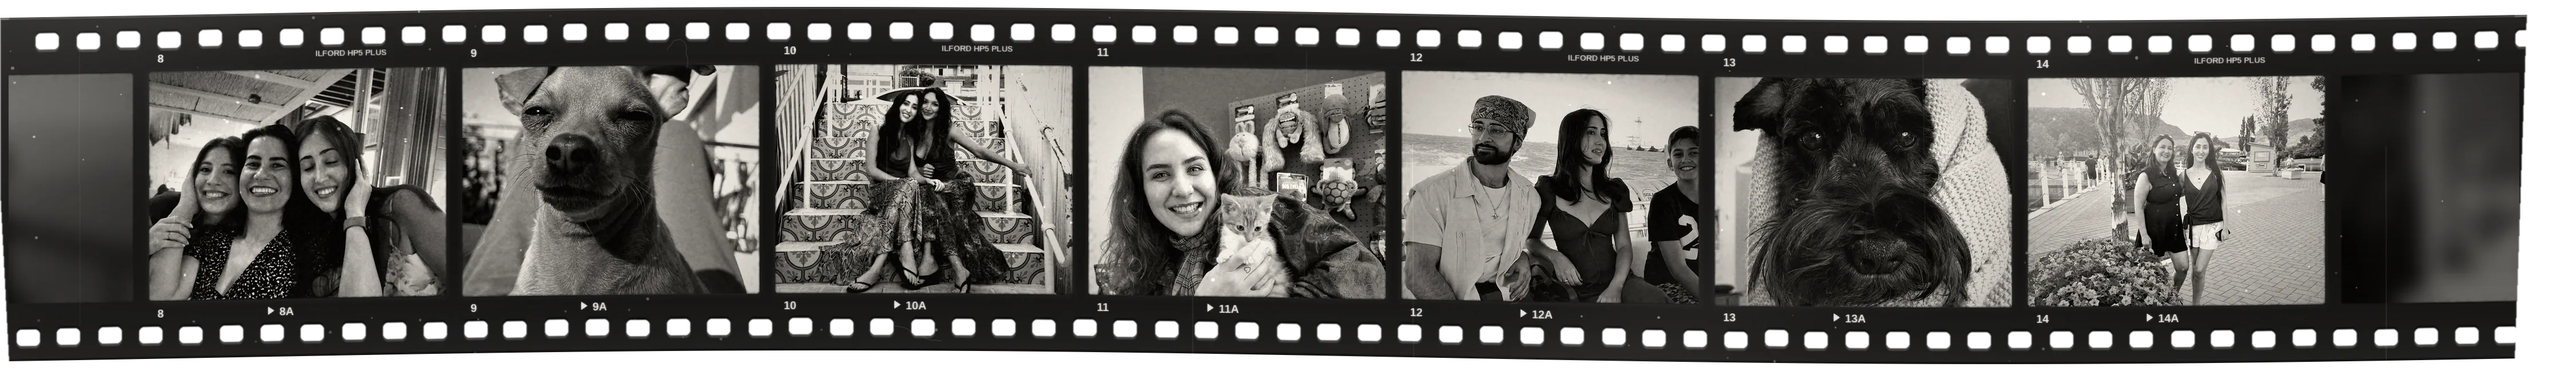
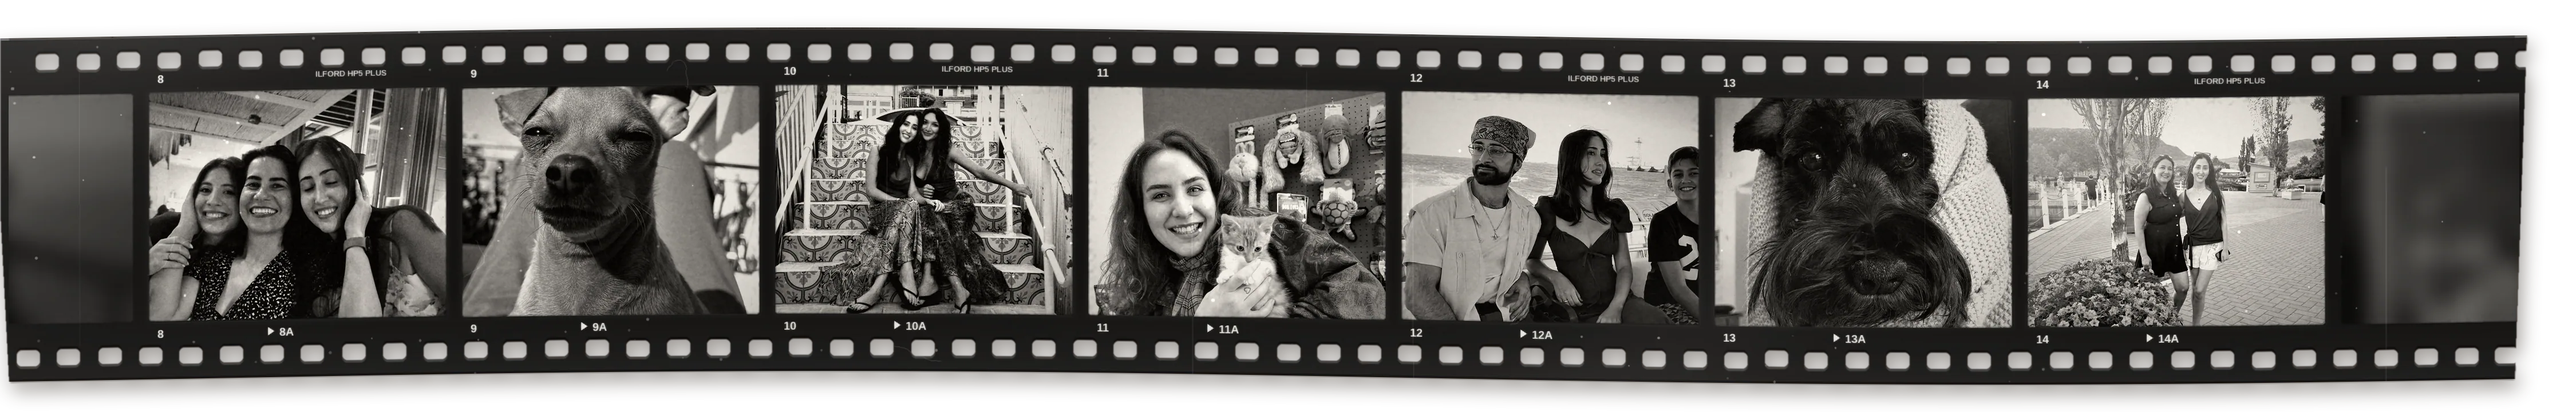
Pin the film section while strips slide, bake shadows for smooth scrolling, Home in header, tidy crops, mobile header and rankings fixes
Claude-Session: https://claude.ai/code/session_019cHY5kFv81n3dVZ9DcXyGk

diff --git a/things-i-love.html b/things-i-love.html
@@ -13,7 +13,7 @@
 <script>document.documentElement.classList.add("js")</script>
 </head>
 <body>
-<header class="cap"><a href="index.html">Peri</a><nav aria-label="Pages"><a href="work.html">Things I&rsquo;ve made</a><a href="things-i-love.html" aria-current="page">Things I love</a><a href="ranking.html">Rankings</a></nav></header>
+<header class="cap"><a href="index.html">Home</a><nav aria-label="Pages"><a href="work.html">Things I&rsquo;ve made</a><a href="things-i-love.html" aria-current="page">Things I love</a><a href="ranking.html">Rankings</a></nav></header>
 <main id="top">
   <section class="pt">
   <p class="folio cap mu">03</p>
@@ -24,8 +24,8 @@
     <ol class="loves-list stag">
       <li style="--i:0"><span class="n type">01</span><span>Piano</span></li>
       <li style="--i:1"><span class="n type">02</span><span>Yoga</span></li>
-      <li style="--i:2"><span class="n type">03</span><span><a href="work.html#strength">Building random things with AI</a></span></li>
-      <li style="--i:3"><span class="n type">04</span><span><a href="work.html#portraits">Creating AI portraits of my friends</a></span></li>
+      <li style="--i:2"><span class="n type">03</span><span>Building random things with AI</span></li>
+      <li style="--i:3"><span class="n type">04</span><span>Creating AI portraits of my friends</span></li>
       <li style="--i:4"><span class="n type">05</span><span>Quality time with the people I love</span></li>
       <li style="--i:5"><span class="n type">06</span><span>Learning new things</span></li>
       <li style="--i:6"><span class="n type">07</span><span>Spending time outdoors</span></li>
@@ -57,34 +57,36 @@
 </ol>
   </section>
   <section id="people" aria-label="People (and pets) I love">
+    <div class="pstage">
     <div class="sh fd"><h2>People (and pets) I love</h2></div>
     <div class="csheet" aria-label="A contact sheet of photos of people and pets I love">
-      <div class="rw"><figure class="crow" data-dir="1"><img loading="lazy" src="assets/img/n/sheet/row-a.webp" alt="" width="4500" height="649">
-        <span class="fr" data-lightbox="assets/img/n/b/p01.jpg" data-alt="Peri and a friend in a garden by the water" style="left:9.33%;top:19.11%;width:11.56%;height:61.79%"></span>
-        <span class="fr" data-lightbox="assets/img/n/b/p19.jpg" data-alt="A schnauzer standing on the lawn" style="left:21.49%;top:19.11%;width:11.56%;height:61.79%"></span>
-        <span class="fr" data-lightbox="assets/img/n/b/p02.jpg" data-alt="Peri with her brother, mom and dad by the sea at sunset" style="left:33.64%;top:19.11%;width:11.56%;height:61.79%"></span>
-        <span class="fr" data-lightbox="assets/img/n/b/p03.jpg" data-alt="Peri and a friend in the back of a car" style="left:45.80%;top:19.11%;width:11.56%;height:61.79%"></span>
-        <span class="fr" data-lightbox="assets/img/n/b/p05.jpg" data-alt="Peri&rsquo;s mom and dad by a lake" style="left:57.96%;top:19.11%;width:11.56%;height:61.79%"></span>
-        <span class="fr" data-lightbox="assets/img/n/b/p08.jpg" data-alt="Peri and a friend, close up" style="left:70.11%;top:19.11%;width:11.56%;height:61.79%"></span>
-        <span class="fr" data-lightbox="assets/img/n/b/p12.jpg" data-alt="Peri and a friend by the sea" style="left:82.27%;top:19.11%;width:11.56%;height:61.79%"></span>
+      <div class="rw"><figure class="crow" data-dir="1"><img src="assets/img/n/sheet/row-a.webp" alt="" width="4500" height="721" decoding="async">
+        <span class="fr" data-lightbox="assets/img/n/b/p01.jpg" data-alt="Peri and a friend in a garden by the water" style="left:9.33%;top:22.19%;width:11.56%;height:55.62%"></span>
+        <span class="fr" data-lightbox="assets/img/n/b/p19.jpg" data-alt="A schnauzer standing on the lawn" style="left:21.49%;top:22.19%;width:11.56%;height:55.62%"></span>
+        <span class="fr" data-lightbox="assets/img/n/b/p02.jpg" data-alt="Peri with her brother, mom and dad by the sea at sunset" style="left:33.64%;top:22.19%;width:11.56%;height:55.62%"></span>
+        <span class="fr" data-lightbox="assets/img/n/b/p03.jpg" data-alt="Peri and a friend in the back of a car" style="left:45.80%;top:22.19%;width:11.56%;height:55.62%"></span>
+        <span class="fr" data-lightbox="assets/img/n/b/p05.jpg" data-alt="Peri&rsquo;s mom and dad by a lake" style="left:57.96%;top:22.19%;width:11.56%;height:55.62%"></span>
+        <span class="fr" data-lightbox="assets/img/n/b/p08.jpg" data-alt="Peri and a friend, close up" style="left:70.11%;top:22.19%;width:11.56%;height:55.62%"></span>
+        <span class="fr" data-lightbox="assets/img/n/b/p12.jpg" data-alt="Peri and a friend by the sea" style="left:82.27%;top:22.19%;width:11.56%;height:55.62%"></span>
       </figure></div>
-      <div class="rw"><figure class="crow" data-dir="-1"><img loading="lazy" src="assets/img/n/sheet/row-b.webp" alt="" width="4500" height="649">
-        <span class="fr" data-lightbox="assets/img/n/b/p04.jpg" data-alt="Peri with two friends" style="left:5.78%;top:19.11%;width:11.56%;height:61.79%"></span>
-        <span class="fr" data-lightbox="assets/img/n/b/p15.jpg" data-alt="A small dog squinting in the sun" style="left:17.93%;top:19.11%;width:11.56%;height:61.79%"></span>
-        <span class="fr" data-lightbox="assets/img/n/b/p06.jpg" data-alt="Peri and a friend on tiled steps" style="left:30.09%;top:19.11%;width:11.56%;height:61.79%"></span>
-        <span class="fr" data-lightbox="assets/img/n/b/p10.jpg" data-alt="A friend holding a kitten" style="left:42.24%;top:19.11%;width:11.56%;height:61.79%"></span>
-        <span class="fr" data-lightbox="assets/img/n/b/p09.jpg" data-alt="Peri with friends on a boat" style="left:54.40%;top:19.11%;width:11.56%;height:61.79%"></span>
-        <span class="fr" data-lightbox="assets/img/n/b/p21.jpg" data-alt="A black schnauzer wrapped in a cream blanket" style="left:66.56%;top:19.11%;width:11.56%;height:61.79%"></span>
-        <span class="fr" data-lightbox="assets/img/n/b/p18.jpg" data-alt="Peri and her mom on a waterfront promenade at sunset, beside a bed of pink flowers" style="left:78.71%;top:19.11%;width:11.56%;height:61.79%"></span>
+      <div class="rw"><figure class="crow" data-dir="-1"><img src="assets/img/n/sheet/row-b.webp" alt="" width="4500" height="721" decoding="async">
+        <span class="fr" data-lightbox="assets/img/n/b/p04.jpg" data-alt="Peri with two friends" style="left:5.78%;top:22.19%;width:11.56%;height:55.62%"></span>
+        <span class="fr" data-lightbox="assets/img/n/b/p15.jpg" data-alt="A small dog squinting in the sun" style="left:17.93%;top:22.19%;width:11.56%;height:55.62%"></span>
+        <span class="fr" data-lightbox="assets/img/n/b/p06.jpg" data-alt="Peri and a friend on tiled steps" style="left:30.09%;top:22.19%;width:11.56%;height:55.62%"></span>
+        <span class="fr" data-lightbox="assets/img/n/b/p10.jpg" data-alt="A friend holding a kitten" style="left:42.24%;top:22.19%;width:11.56%;height:55.62%"></span>
+        <span class="fr" data-lightbox="assets/img/n/b/p09.jpg" data-alt="Peri with friends on a boat" style="left:54.40%;top:22.19%;width:11.56%;height:55.62%"></span>
+        <span class="fr" data-lightbox="assets/img/n/b/p21.jpg" data-alt="A black schnauzer wrapped in a cream blanket" style="left:66.56%;top:22.19%;width:11.56%;height:55.62%"></span>
+        <span class="fr" data-lightbox="assets/img/n/b/p18.jpg" data-alt="Peri and her mom on a waterfront promenade at sunset, beside a bed of pink flowers" style="left:78.71%;top:22.19%;width:11.56%;height:55.62%"></span>
       </figure></div>
-      <div class="rw"><figure class="crow" data-dir="1"><img loading="lazy" src="assets/img/n/sheet/row-c.webp" alt="" width="4500" height="649">
-        <span class="fr" data-lightbox="assets/img/n/b/p11.jpg" data-alt="Peri and a friend hugging in a garden" style="left:6.67%;top:19.11%;width:11.56%;height:61.79%"></span>
-        <span class="fr" data-lightbox="assets/img/n/b/p20.jpg" data-alt="A small tan dog in a pink coat standing over a sleepy schnauzer on a bed" style="left:18.82%;top:19.11%;width:11.56%;height:61.79%"></span>
-        <span class="fr" data-lightbox="assets/img/n/b/p13.jpg" data-alt="A polaroid held up in front of flowers" style="left:30.98%;top:19.11%;width:11.56%;height:61.79%"></span>
-        <span class="fr" data-lightbox="assets/img/n/b/p07.jpg" data-alt="Peri and her brother at sunset" style="left:43.13%;top:19.11%;width:11.56%;height:61.79%"></span>
-        <span class="fr" data-lightbox="assets/img/n/b/p14.jpg" data-alt="Peri with her dog" style="left:55.29%;top:19.11%;width:11.56%;height:61.79%"></span>
-        <span class="fr" data-lightbox="assets/img/n/b/p16.jpg" data-alt="Two dogs on a blanket" style="left:67.44%;top:19.11%;width:11.56%;height:61.79%"></span>
+      <div class="rw"><figure class="crow" data-dir="1"><img src="assets/img/n/sheet/row-c.webp" alt="" width="4500" height="721" decoding="async">
+        <span class="fr" data-lightbox="assets/img/n/b/p11.jpg" data-alt="Peri and a friend hugging in a garden" style="left:6.67%;top:22.19%;width:11.56%;height:55.62%"></span>
+        <span class="fr" data-lightbox="assets/img/n/b/p20.jpg" data-alt="A small tan dog in a pink coat standing over a sleepy schnauzer on a bed" style="left:18.82%;top:22.19%;width:11.56%;height:55.62%"></span>
+        <span class="fr" data-lightbox="assets/img/n/b/p13.jpg" data-alt="A polaroid held up in front of flowers" style="left:30.98%;top:22.19%;width:11.56%;height:55.62%"></span>
+        <span class="fr" data-lightbox="assets/img/n/b/p07.jpg" data-alt="Peri and her brother at sunset" style="left:43.13%;top:22.19%;width:11.56%;height:55.62%"></span>
+        <span class="fr" data-lightbox="assets/img/n/b/p14.jpg" data-alt="Peri with her dog" style="left:55.29%;top:22.19%;width:11.56%;height:55.62%"></span>
+        <span class="fr" data-lightbox="assets/img/n/b/p16.jpg" data-alt="Two dogs on a blanket" style="left:67.44%;top:22.19%;width:11.56%;height:55.62%"></span>
       </figure></div>
+    </div>
     </div>
   </section>
   <section class="hello">

diff --git a/assets/inner.css b/assets/inner.css
@@ -81,14 +81,19 @@ header a[aria-current]{background:none}
 .loves-list a{color:var(--red);text-decoration:underline;text-underline-offset:.22em}
 .sh{padding:6vh 6vw 7vh;border-top:1px solid var(--line);margin:0 6vw;padding-left:0;padding-right:0}
 .sh h2{font:400 clamp(2.4rem,5.6vw,6.4rem)/1 var(--serif);letter-spacing:-.025em}
-.csheet{margin:0;padding:1vw 0 6vw;display:flex;flex-direction:column;gap:0;overflow-x:auto;scrollbar-width:none}.csheet::-webkit-scrollbar{display:none}
-.csheet.live{overflow:hidden}
-.rw{position:relative;flex:none}.rw+.rw{margin-top:-1.4vw}
-.crow{position:relative;margin:0;width:150vw;transform:translate3d(var(--tx,0px),0,0) rotate(var(--r,0deg));will-change:transform;filter:drop-shadow(0 1px 1px rgba(30,18,8,.45)) drop-shadow(.2rem .8rem .9rem rgba(30,18,8,.22))}
+#people{--rw:min(200vw,calc(2.4*(100svh - 6.5rem)));margin:0 6vw;border-top:1px solid var(--line)}
+.pstage{margin:0 -6vw}
+.pstage .sh{margin:0 6vw;border-top:0;padding:5vh 0 3vh}
+.csheet{padding:0 0 4vw;display:flex;flex-direction:column;overflow-x:auto;scrollbar-width:none}.csheet::-webkit-scrollbar{display:none}
+.rw{position:relative;flex:none}.rw+.rw{margin-top:calc(var(--rw)*-.03)}
+.crow{position:relative;margin:0;width:var(--rw);transform:translate3d(var(--tx,0px),0,0) rotate(var(--r,0deg));will-change:transform;backface-visibility:hidden}
 .rw:nth-child(1) .crow{--r:-.45deg}.rw:nth-child(2) .crow{--r:.5deg}.rw:nth-child(3) .crow{--r:-.3deg}
 .crow img{display:block;width:100%;height:auto}
 .crow .fr{position:absolute;cursor:zoom-in;transition:background .35s,box-shadow .35s}
 .crow .fr:hover,.crow .fr:focus-visible{background:rgba(255,246,226,.12);box-shadow:0 0 0 1px rgba(255,236,200,.5) inset;outline:none}
+#people.live .pstage{position:sticky;top:0;height:100vh;height:100svh;display:flex;flex-direction:column;justify-content:center;overflow:hidden}
+#people.live .csheet{overflow:hidden;padding-bottom:0}
+#people.live .pstage .sh{padding:0 0 2.2vh}
 /* rankings */
 .ranks{display:grid;grid-template-columns:22vw 1fr;gap:0 5vw;padding:0 6vw 10vh}
 .ranks .plates figure{width:68%}.ranks .plates figure+figure{margin-top:2rem;margin-left:34%;width:54%}
@@ -117,7 +122,7 @@ html:not(.js) .chart .ln{stroke-dashoffset:0}html:not(.js) .chart circle{opacity
 .lb.open img{transform:none}
 .lb button{position:absolute;top:1.8rem;right:6vw;border:0;background:none;color:var(--ink);cursor:pointer;padding:0 0 .35em;background:linear-gradient(currentColor,currentColor) 0 100%/100% 1px no-repeat}
 @media (max-width:760px){
-header{position:absolute;color:inherit;mix-blend-mode:normal;padding:1.4rem 16px;flex-direction:column;gap:.6rem}header nav{gap:1.2rem;flex-wrap:wrap}
+header{position:absolute;color:inherit;mix-blend-mode:normal;padding:1.4rem 16px;flex-direction:column;gap:.6rem}header.cap{font-size:.66rem}header nav{gap:.95rem;flex-wrap:nowrap}
 .pt{padding:9rem 16px 3rem}.pt .folio{position:static;margin-bottom:1.4rem}.pt h1{font-size:15vw}.pt h1.long{font-size:12.5vw}
 .toc{margin:0 16px 5rem}.toc a{grid-template-columns:2.4rem 1fr}.toc .k{grid-column:2}
 .proj{margin:0 16px;padding:3.2rem 0 4rem;grid-template-columns:1fr}.proj .pm{margin-bottom:1.4rem;grid-column:1;grid-row:auto}.proj h2{grid-column:1;grid-row:auto;max-width:none}.proj .body{grid-column:1;margin-top:1.4rem}.proj .body+.body{margin-top:1.1rem}.proj .tr{grid-column:1}.proj .vid{grid-column:1;margin-top:2rem}
@@ -125,8 +130,8 @@ header{position:absolute;color:inherit;mix-blend-mode:normal;padding:1.4rem 16px
 .intro{width:auto;margin:0 0 2rem}.pf{height:auto;width:100%;aspect-ratio:var(--ar);margin:0 0 2.4rem}.pf .no{display:none}.pf img{transform:none}.hud,.bar{display:none}.prail{height:auto!important}
 .loves{grid-template-columns:1fr;padding:0 16px 5rem}.plates{display:grid;grid-template-columns:1fr 1fr 1fr;gap:10px;margin-bottom:2.4rem}.plates figure,.plates figure+figure,.plates figure:nth-child(n){width:auto;margin:0}
 .loves-list{columns:1}.sh{margin:0 16px}
-.csheet{padding:.5rem 0 3rem}.crow{width:340vw}.rw+.rw{margin-top:-3vw}
-.ranks{grid-template-columns:1fr;padding:0 16px 4rem}.ranks .plates{position:static;grid-template-columns:1fr 1fr;max-width:20rem}.plot{grid-column:1;margin-top:5rem}
+#people{--rw:min(340vw,calc(2.4*(100svh - 6.5rem)));margin:0 16px}.pstage{margin:0 -16px}.pstage .sh{margin:0 16px;padding:3rem 0 1.4rem}#people.live .pstage .sh{padding:0 0 1rem}
+.ranks{grid-template-columns:1fr;padding:0 16px 4rem}.ranks .plates{position:static;grid-template-columns:1fr 1fr;max-width:20rem}.ranks .plates figure,.ranks .plates figure+figure{width:auto;margin:0}.ranks .plates figure+figure{align-self:end}.plot{grid-column:1;margin-top:5rem}
 .hello{padding-top:10vh}.hello .hi{font-size:4.8rem}.hello .links{gap:1.4rem}.colophon{padding:4rem 16px 2rem}
 }
 

diff --git a/assets/inner.js b/assets/inner.js
@@ -24,12 +24,14 @@ if(lb){var li=lb.querySelector('img'),lbtn=lb.querySelector('button'),opener=nul
   f.addEventListener('click',open);f.addEventListener('keydown',function(e){if(e.key==='Enter'||e.key===' '){e.preventDefault();open()}})});
  lb.addEventListener('click',close);document.addEventListener('keydown',function(e){if(e.key==='Escape'&&lb.classList.contains('open'))close()})}
 
-/* the contact sheet: each strip slides sideways as you scroll past it, in alternating directions */
-var cs=document.querySelector('.csheet');
-if(cs&&!rm){cs.classList.add('live');var rws=[].slice.call(cs.querySelectorAll('.rw')).map(function(w){var r=w.querySelector('.crow');return{w:w,r:r,d:+r.getAttribute('data-dir'),cur:null,tgt:0}}),raf2=0;
- function stepc(){raf2=0;var busy=false;rws.forEach(function(o){o.cur+=(o.tgt-o.cur)*.11;if(Math.abs(o.tgt-o.cur)<.4)o.cur=o.tgt;else busy=true;o.r.style.setProperty('--tx',o.cur.toFixed(1)+'px')});if(busy)raf2=requestAnimationFrame(stepc)}
- function calc(){var vh=innerHeight;rws.forEach(function(o){var b=o.w.getBoundingClientRect(),p=Math.min(1,Math.max(0,(vh-b.top)/(vh+b.height))),mx=Math.max(0,o.r.offsetWidth-o.w.offsetWidth);o.tgt=(o.d>0?-p:-(1-p))*mx;if(o.cur===null)o.cur=o.tgt});if(!raf2)raf2=requestAnimationFrame(stepc)}
- addEventListener('scroll',calc,{passive:true});addEventListener('resize',calc);addEventListener('load',calc);calc()}
+/* the contact sheet is pinned: the page holds while three strips slide through in opposite directions */
+var pin=document.getElementById('people'),cs=document.querySelector('.csheet');
+if(pin&&cs&&!rm){pin.classList.add('live');var rws=[].slice.call(cs.querySelectorAll('.rw')).map(function(w){var r=w.querySelector('.crow');return{w:w,r:r,d:+r.getAttribute('data-dir'),cur:null,tgt:0}}),raf2=0,mxx=0;
+ function sizep(){mxx=0;rws.forEach(function(o){o.mx=Math.max(0,o.r.offsetWidth-o.w.offsetWidth);mxx=Math.max(mxx,o.mx)});pin.style.height=Math.round(innerHeight+mxx*1.15+innerHeight*.25)+'px'}
+ function stepc(){raf2=0;var busy=false;rws.forEach(function(o){o.cur+=(o.tgt-o.cur)*.14;if(Math.abs(o.tgt-o.cur)<.3)o.cur=o.tgt;else busy=true;o.r.style.setProperty('--tx',o.cur.toFixed(2)+'px')});if(busy)raf2=requestAnimationFrame(stepc)}
+ function calc(){var b=pin.getBoundingClientRect(),p=Math.min(1,Math.max(0,-b.top/Math.max(1,b.height-innerHeight)));p=Math.min(1,Math.max(0,(p-.05)/.9));rws.forEach(function(o){o.tgt=(o.d>0?-p:-(1-p))*o.mx;if(o.cur===null)o.cur=o.tgt});if(!raf2)raf2=requestAnimationFrame(stepc)}
+ function all(){sizep();calc()}
+ addEventListener('scroll',calc,{passive:true});addEventListener('resize',all);addEventListener('load',all);all()}
 
 /* the portraits: pinned, sliding sideways */
 var rail=document.querySelector('.prail');

diff --git a/index.html b/index.html
@@ -53,7 +53,7 @@ header nav{display:flex;gap:2.6rem}header a[aria-current]{text-decoration:underl
 .s1 .hi{position:absolute;left:6vw;top:calc(15vh + 80vh - 13.5vw);font-size:clamp(6rem,11vw,11rem)}
 .s1 .say{order:2;position:static;width:min(23.5rem,30vw);margin:9vh 6vw 0 auto}
 @media (max-width:760px){
-header{position:absolute;color:inherit;mix-blend-mode:normal;padding:1.2rem 16px;flex-direction:column;gap:.8rem}header nav{gap:1.2rem;flex-wrap:wrap}
+header{position:absolute;color:inherit;mix-blend-mode:normal;padding:1.2rem 16px;flex-direction:column;gap:.8rem}header.cap{font-size:.66rem}header nav{gap:.95rem;flex-wrap:nowrap}
 .spread{min-height:auto;padding:0 16px}
 .foot{position:static;margin-top:2.5rem}.s1{padding-top:9rem;padding-bottom:4rem}.s1 .say,.s1 figure,.s4 .hi,.s4 .links,.s4 .pgs,.s4 .fine{position:static;width:auto}
 .s1 .say{font-size:.74rem;line-height:2}.s1 figure{width:calc(100% + 16px);margin:3.5rem -16px 0 0}.s1 .hi{position:relative;left:auto;top:auto;z-index:2;margin:-6rem 0 0 6%;font-size:4.8rem;transform:rotate(-6deg)}.s1 .foot{margin-top:4rem}
@@ -147,7 +147,7 @@ linear-gradient(var(--k),var(--k)) 100% calc(100% - 26px)/16px 1px no-repeat,lin
 }
 </style></head><body>
 <script>document.documentElement.classList.add("js")</script>
-<header class="cap"><a href="index.html" aria-current="page">Peri</a><nav aria-label="Pages"><a href="work.html">Things I&rsquo;ve made</a><a href="things-i-love.html">Things I love</a><a href="ranking.html">Rankings</a></nav></header>
+<header class="cap"><a href="index.html" aria-current="page">Home</a><nav aria-label="Pages"><a href="work.html">Things I&rsquo;ve made</a><a href="things-i-love.html">Things I love</a><a href="ranking.html">Rankings</a></nav></header>
 
 <section class="spread s0">
   <h1 aria-label="I like making things."><span class="ln" aria-hidden="true"><span>I like making</span></span><span class="ln" aria-hidden="true"><span>things.</span></span></h1>

diff --git a/ranking.html b/ranking.html
@@ -13,7 +13,7 @@
 <script>document.documentElement.classList.add("js")</script>
 </head>
 <body>
-<header class="cap"><a href="index.html">Peri</a><nav aria-label="Pages"><a href="work.html">Things I&rsquo;ve made</a><a href="things-i-love.html">Things I love</a><a href="ranking.html" aria-current="page">Rankings</a></nav></header>
+<header class="cap"><a href="index.html">Home</a><nav aria-label="Pages"><a href="work.html">Things I&rsquo;ve made</a><a href="things-i-love.html">Things I love</a><a href="ranking.html" aria-current="page">Rankings</a></nav></header>
 <main id="top">
   <section class="pt">
   <p class="folio cap mu">04</p>

diff --git a/work.html b/work.html
@@ -13,7 +13,7 @@
 <script>document.documentElement.classList.add("js")</script>
 </head>
 <body>
-<header class="cap"><a href="index.html">Peri</a><nav aria-label="Pages"><a href="work.html" aria-current="page">Things I&rsquo;ve made</a><a href="things-i-love.html">Things I love</a><a href="ranking.html">Rankings</a></nav></header>
+<header class="cap"><a href="index.html">Home</a><nav aria-label="Pages"><a href="work.html" aria-current="page">Things I&rsquo;ve made</a><a href="things-i-love.html">Things I love</a><a href="ranking.html">Rankings</a></nav></header>
 <main id="top">
   <section class="pt">
   <p class="folio cap mu">02</p>
